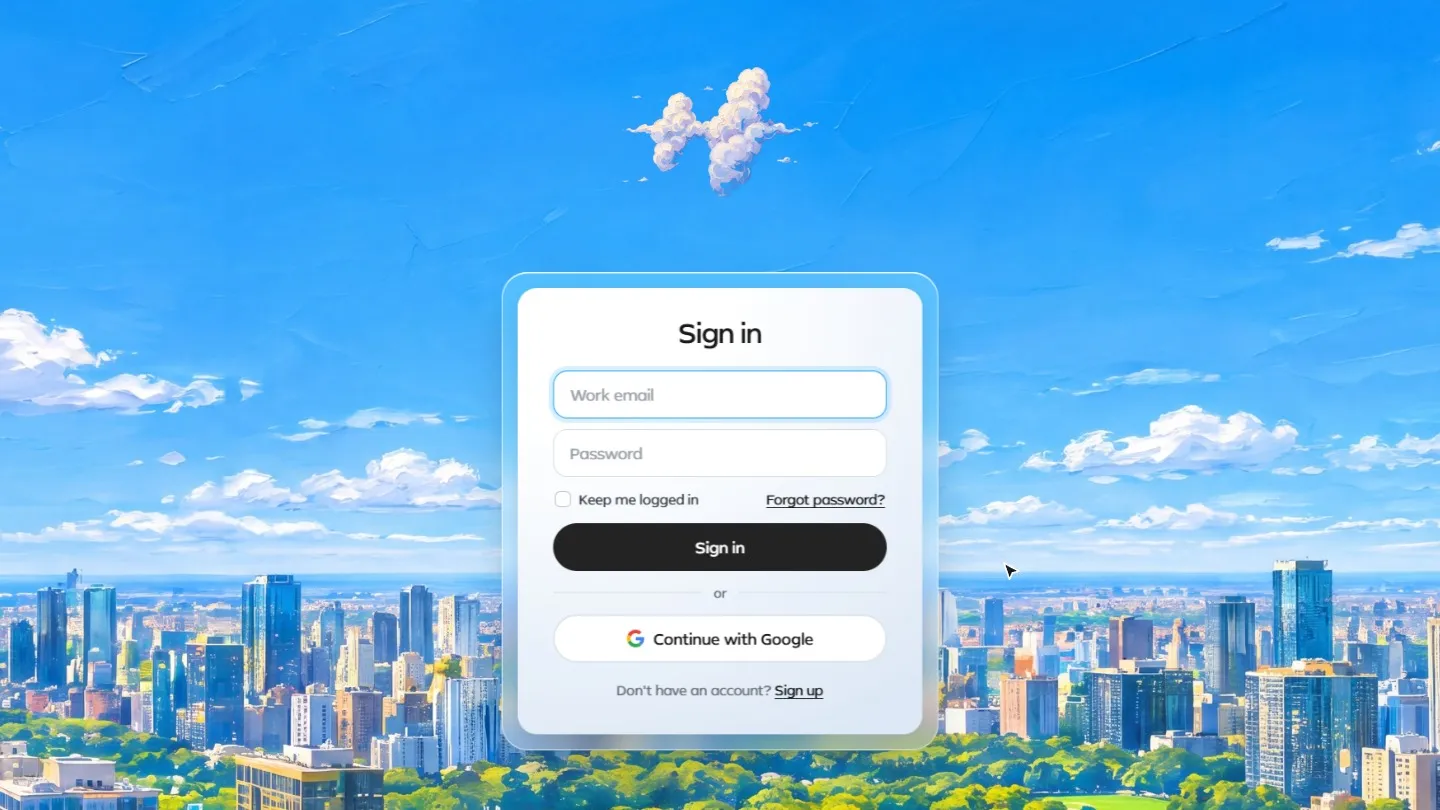
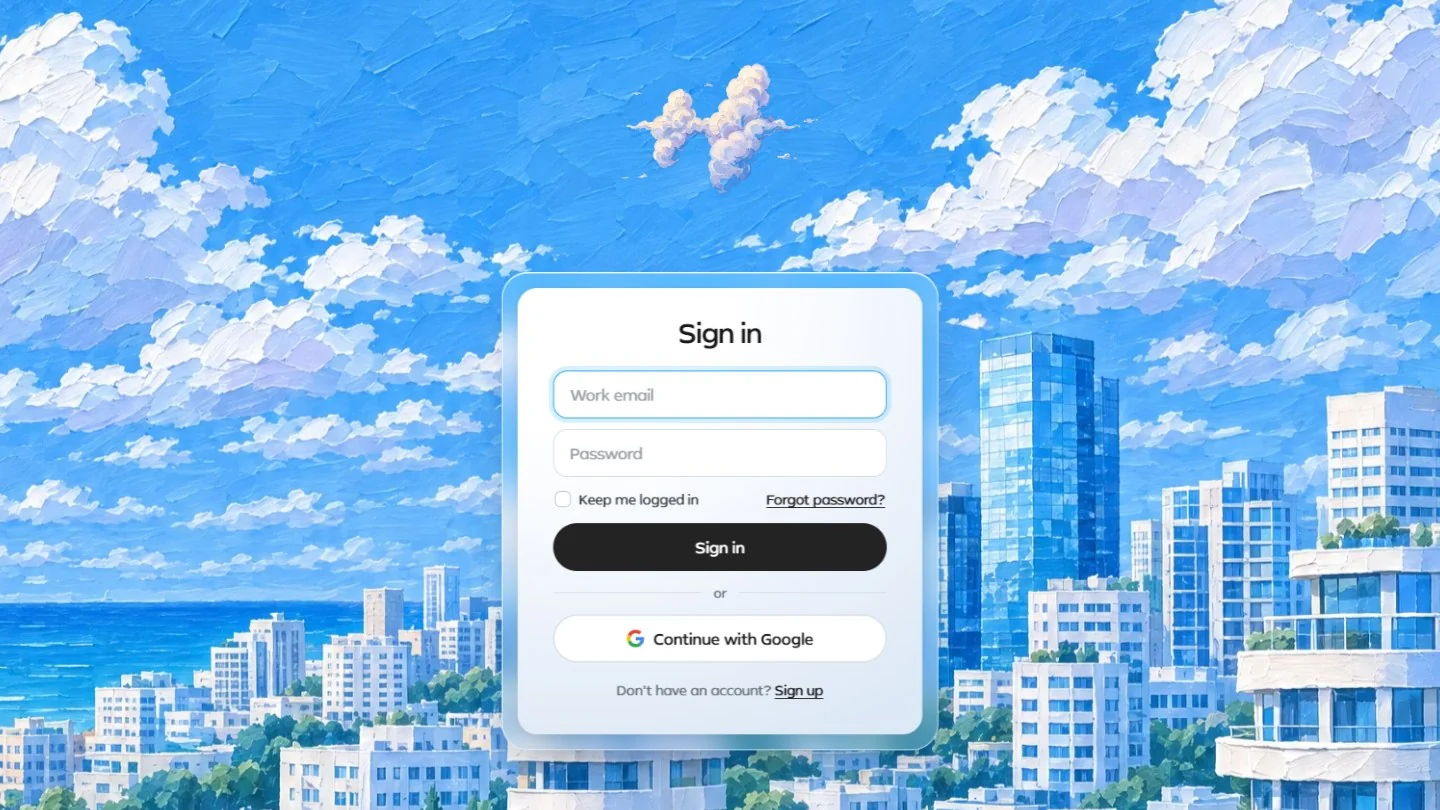
Home: the Hear Studio demo signs in under the same painted city as the sign-in tile, and the Topics block keeps only sky and clouds

diff --git a/index.html b/index.html
@@ -3919,7 +3919,7 @@ html.me-scroll #about .me-pin.me-set .me-photo.me-v7::before{ transition: none; 
 <script>/* the pinned opening (html.me-scroll) is decided here, before the first paint; the pin script at the foot of the page then takes over. Decided only there, the page was first painted in the plain layout, and the four facts were seen on the picture for a moment and gone */try{(function(m,c){function s(){c.toggle('me-scroll',m.matches)}s();if(m.addEventListener)m.addEventListener('change',s)})(matchMedia('(min-width: 861px) and (prefers-reduced-motion: no-preference)'),document.documentElement.classList)}catch(e){}</script>
 <link rel="stylesheet" href="v7/code.css?v=222">
 <link rel="stylesheet" href="v7/design-lab.css?v=224">
-<link rel="stylesheet" href="v7/topics.css?v=5">
+<link rel="stylesheet" href="v7/topics.css?v=6">
 <link rel="stylesheet" href="v7/product.css?v=230">
 <link rel="stylesheet" href="v7/system.css?v=222">
 <link rel="stylesheet" href="v7/web-fyi.css?v=2240">
@@ -4052,7 +4052,7 @@ html.me-scroll #about .me-pin.me-set .me-photo.me-v7::before{ transition: none; 
     </div>
     
 
-    <figure class="ct-fig hs-fig"><div class="ct-stage"><div class="hs-win"><img class="hs-poster" src="img/hear-studio-poster.webp" alt="" width="1440" height="810" loading="lazy" decoding="async"><iframe class="hs-app" data-base="hear-v7/plan/" title="Hear Studio, running live: sign in, the welcome card, a request typed in plain words, and the app Hear builds from it" tabindex="-1" scrolling="no"></iframe><span class="hs-ptr" aria-hidden="true"><svg width="26" height="26" viewBox="0 0 26 26"><path d="M4 3l15 8.2-6.6 1.7-2.9 6.4z" fill="#171b20" stroke="#fff" stroke-width="1.6" stroke-linejoin="round"/></svg></span></div></div><div class="hs-bar"><button type="button" class="hs-pp" aria-label="Pause the demo"><svg class="hs-ring" viewBox="0 0 56 56" aria-hidden="true"><circle class="hs-ring-t" cx="28" cy="28" r="26"/><circle class="hs-ring-p" cx="28" cy="28" r="26"/></svg><span class="hs-disc"><svg class="hs-i-pause" width="14" height="14" viewBox="0 0 14 14" aria-hidden="true"><rect x="2.2" y="1.5" width="3.2" height="11" rx="1.1"/><rect x="8.6" y="1.5" width="3.2" height="11" rx="1.1"/></svg><svg class="hs-i-play" width="14" height="14" viewBox="0 0 14 14" aria-hidden="true"><path d="M3.6 1.6v10.8a.6.6 0 0 0 .92.5l8.3-5.4a.6.6 0 0 0 0-1L4.52 1.1a.6.6 0 0 0-.92.5z"/></svg></span></button><p class="hs-now" aria-hidden="true"><span class="hs-k">Step 1 of 4</span><span class="hs-t">Sign in</span></p><ol class="hs-segs" aria-label="Steps in the demo"><li><button type="button" aria-label="Step 1: Sign in" data-l="Sign in"><i></i></button></li><li><button type="button" aria-label="Step 2: Meet Hear Studio" data-l="Meet Hear Studio"><i></i></button></li><li><button type="button" aria-label="Step 3: Describe it" data-l="Describe it"><i></i></button></li><li><button type="button" aria-label="Step 4: Hear builds it" data-l="Hear builds it"><i></i></button></li></ol></div></figure>
+    <figure class="ct-fig hs-fig"><div class="ct-stage"><div class="hs-win"><img class="hs-poster" src="img/hear-studio-poster.webp?v=2" alt="" width="1440" height="810" loading="lazy" decoding="async"><iframe class="hs-app" data-base="hear-v7/plan/" title="Hear Studio, running live: sign in, the welcome card, a request typed in plain words, and the app Hear builds from it" tabindex="-1" scrolling="no"></iframe><span class="hs-ptr" aria-hidden="true"><svg width="26" height="26" viewBox="0 0 26 26"><path d="M4 3l15 8.2-6.6 1.7-2.9 6.4z" fill="#171b20" stroke="#fff" stroke-width="1.6" stroke-linejoin="round"/></svg></span></div></div><div class="hs-bar"><button type="button" class="hs-pp" aria-label="Pause the demo"><svg class="hs-ring" viewBox="0 0 56 56" aria-hidden="true"><circle class="hs-ring-t" cx="28" cy="28" r="26"/><circle class="hs-ring-p" cx="28" cy="28" r="26"/></svg><span class="hs-disc"><svg class="hs-i-pause" width="14" height="14" viewBox="0 0 14 14" aria-hidden="true"><rect x="2.2" y="1.5" width="3.2" height="11" rx="1.1"/><rect x="8.6" y="1.5" width="3.2" height="11" rx="1.1"/></svg><svg class="hs-i-play" width="14" height="14" viewBox="0 0 14 14" aria-hidden="true"><path d="M3.6 1.6v10.8a.6.6 0 0 0 .92.5l8.3-5.4a.6.6 0 0 0 0-1L4.52 1.1a.6.6 0 0 0-.92.5z"/></svg></span></button><p class="hs-now" aria-hidden="true"><span class="hs-k">Step 1 of 4</span><span class="hs-t">Sign in</span></p><ol class="hs-segs" aria-label="Steps in the demo"><li><button type="button" aria-label="Step 1: Sign in" data-l="Sign in"><i></i></button></li><li><button type="button" aria-label="Step 2: Meet Hear Studio" data-l="Meet Hear Studio"><i></i></button></li><li><button type="button" aria-label="Step 3: Describe it" data-l="Describe it"><i></i></button></li><li><button type="button" aria-label="Step 4: Hear builds it" data-l="Hear builds it"><i></i></button></li></ol></div></figure>
 
     <div class="tp-block">
         <div class="tp-head">
@@ -4075,7 +4075,7 @@ html.me-scroll #about .me-pin.me-set .me-photo.me-v7::before{ transition: none; 
             <span id="tp-say-0"><b>A pencil sketch</b><i> of the screen, drawn from its real layout.</i></span>
             <span id="tp-say-1"><b>A gray wireframe</b><i> settles what the screen holds.</i></span>
             <span id="tp-say-2"><b>The same code</b><i>, now in the Hear look.</i></span>
-            <span id="tp-say-3"><b>Then Hear’s painted sky</b><i class="tp-wide">, city and clouds.</i><i class="tp-narrow"> and a cloud.</i></span>
+            <span id="tp-say-3"><b>Then Hear’s painted sky</b><i class="tp-wide"> and clouds.</i><i class="tp-narrow"> and a cloud.</i></span>
             <span id="tp-say-4"><b>And it works</b><i class="tp-mouse">: a topic opens to its three scores, and a click asks AI why.</i><i class="tp-touch">: a tap opens the three scores behind a topic.</i><i class="tp-plain">: pick a topic and its days light up beside it.</i></span>
             <span id="tp-say-5"><i class="tp-dot"></i><i>Press a step to see it again.</i></span>
           </p>

diff --git a/hear-v7/plan/login.html b/hear-v7/plan/login.html
@@ -18,7 +18,7 @@
 *{box-sizing:border-box}
 html,body{margin:0;height:100%;overflow:hidden;background:#0b2a55}
 .stage{position:relative;width:100vw;height:100vh;height:100dvh;overflow:hidden;overflow:clip;font-family:Byrd,system-ui,sans-serif;color:var(--ink);-webkit-font-smoothing:antialiased}
-.bg{position:absolute;inset:0;width:100%;height:100%;object-fit:cover;object-position:50% 70%}      /* the horizon is at 70% of the painting: pinning that line keeps it at 70% of the window, whatever the window's shape */
+.bg{position:absolute;inset:0;width:100%;height:100%;object-fit:cover;object-position:50% 96%}      /* the horizon is at 70% of the painting: pinning that line keeps it at 70% of the window, whatever the window's shape */
 .wrap{position:absolute;left:50%;top:50%;width:min(492px,calc(100vw - 24px));translate:-50% -50%;scale:var(--s,1);display:flex;flex-direction:column;align-items:center;gap:24px}      /* the cloud and the plate, as one group: the script sizes it to the window */
 .glass{position:relative;width:100%;border-radius:30px;padding:18px;background:rgba(255,255,255,.2);-webkit-backdrop-filter:blur(18px) saturate(1.2);backdrop-filter:blur(18px) saturate(1.2);
   box-shadow:inset 0 0 0 1px rgba(255,255,255,.7),inset 0 1.5px 0 rgba(255,255,255,.9),0 24px 48px -16px rgba(10,40,80,.4)}
@@ -64,7 +64,7 @@ a{color:var(--ink);text-underline-offset:3px}
 </style>
 
 <div class="stage">
-  <img class="bg" draggable="false" src="login/bg-sky.jpg" alt="">
+  <img class="bg" draggable="false" src="login/bg-city.webp" alt="">
   <div class="wrap" id="wrap">
   <img class="cloud" draggable="false" src="login/cloud-logo.png" alt="Hear">
   <main class="glass"><div class="card">

diff --git a/v7/topics.css b/v7/topics.css
@@ -133,7 +133,7 @@
 }
 @media (max-width:899px){ #design-lab#design-lab .tp-block{ margin-top:72px; } }
 /* owner, 23.11: the flowers float and look wrong, so they are out; sky, city and clouds stay */
-#design-lab#design-lab .tp-fig .a-wisteria, #design-lab#design-lab .tp-fig .a-hyd{ display:none !important; }
+#design-lab#design-lab .tp-fig .a-wisteria, #design-lab#design-lab .tp-fig .a-hyd, #design-lab#design-lab .tp-fig .a-city{ display:none !important; }      /* the city too (owner, same day) */
 /* owner, 23.11: no driving the screen by hand */
 #design-lab#design-lab .tp-fig .tp-hi{ pointer-events:none !important; }
 @media (max-width:899px){ #design-lab#design-lab .tp-block{ padding-bottom:120px; } }

diff --git a/.claude/inbox/site.md b/.claude/inbox/site.md
@@ -47,3 +47,5 @@
 - 23.11 (site, correction): the owner wants the window, clouds and city to keep moving with the mouse, so the tilt listener in `v7/topics.js` is back on. Only hover and click inside the screen stay off (`is-usable` never set, `.tp-hi` pointer-events none).
 
 - 23.11 (site): the owner does not like the tiles filling with colour from the edge ("I want them to simply appear"). In `v7/topics.js` the stage 3 tile block is now a plain whole-tile change of colour, staggered as before, with no gradient line, no score pop and no landing bump. Please keep the pour out.
+
+- 23.11 (site): two more owner requests. (1) Topics block: "get rid of these buildings too": `.a-city` is hidden with the flowers in `v7/topics.css`; the world is now sky and clouds only, caption "Then Hear's painted sky and clouds." (2) He asked that the Hear Studio demo's sign-in use the same painting as the sign-in tile in the Code section: `hear-v7/plan/login.html` now loads `login/bg-city.webp` (a copy of `img/hw-sky-city.webp`) at `object-position:50% 96%`; `bg-sky.jpg` is left in place, unused by that page. `img/hear-studio-poster.webp` was re-shot to match. This is the one edit I made inside `hear-v7/`, by his direct request.
